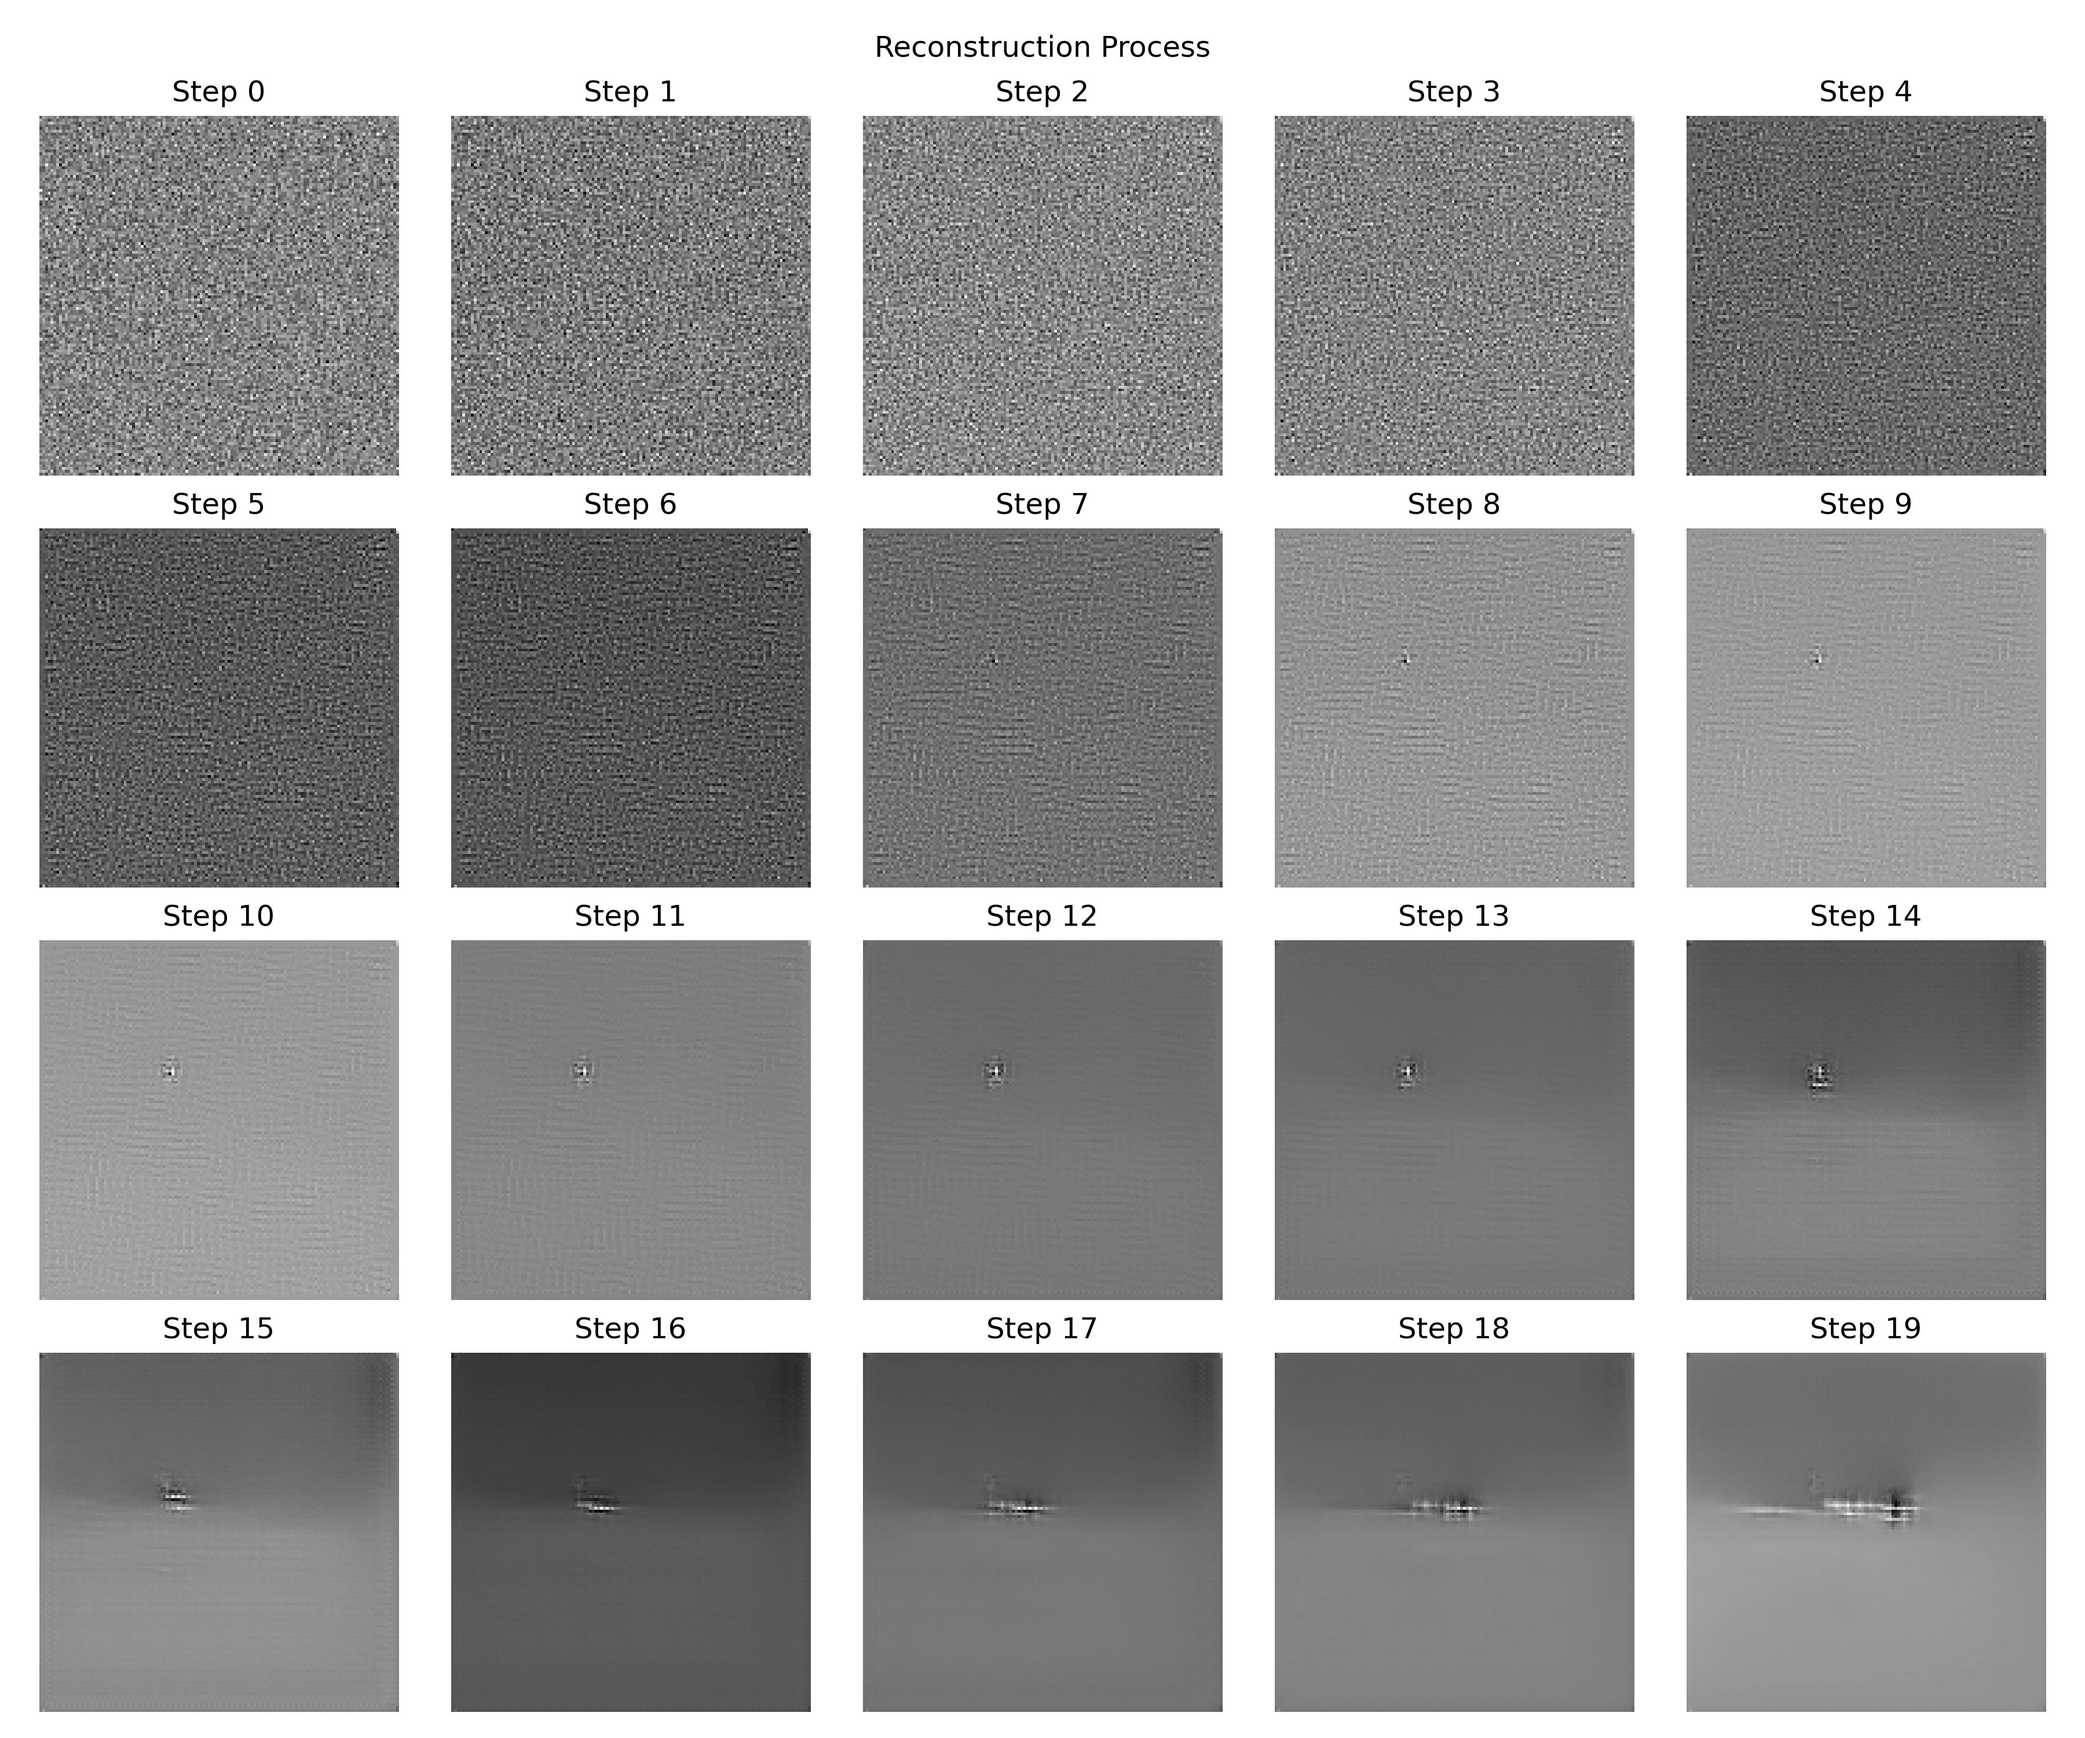
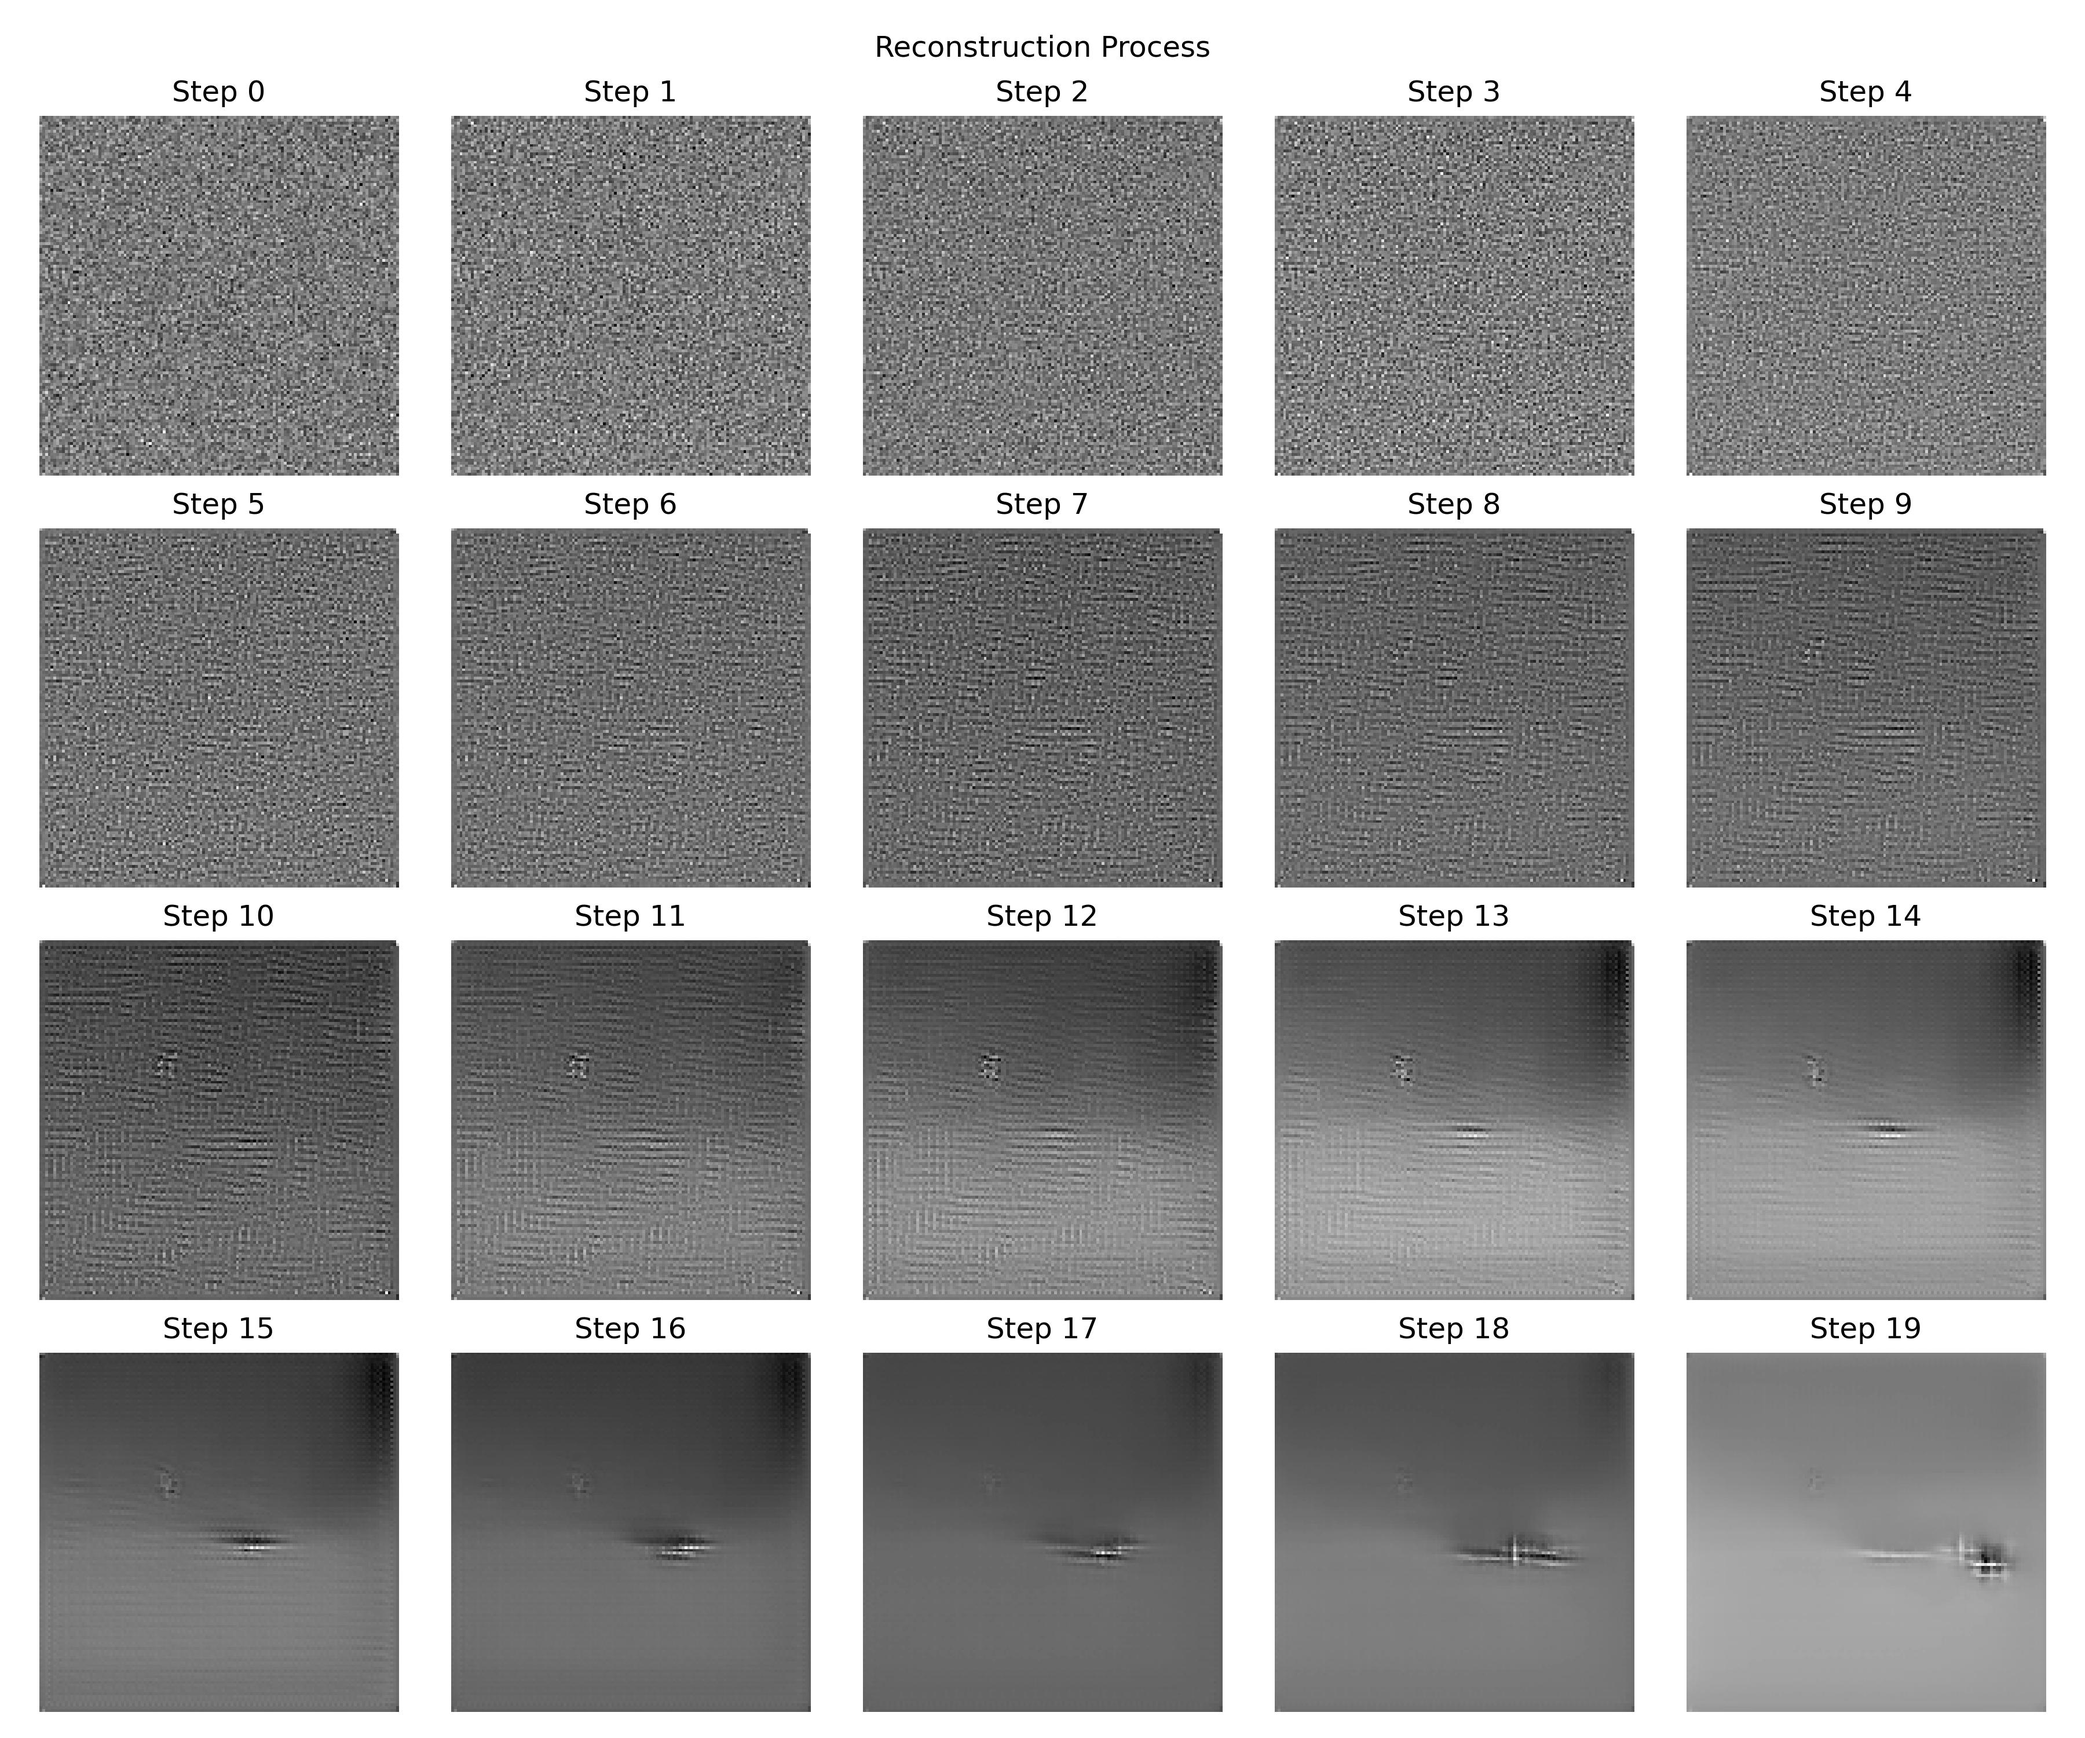
decaying learning rate and OMP bug fixes

diff --git a/square_IR_main.py b/square_IR_main.py
@@ -3,6 +3,7 @@ import numpy as np
 import torch
 import torch.nn as nn
 from torch.optim import Adam
+from torch.optim.lr_scheduler import ReduceLROnPlateau
 import torch.nn.functional as F
 from torch.utils.data import Dataset, DataLoader
 import cv2
@@ -15,10 +16,12 @@ from pathlib import Path
 
 device = torch.device('cuda' if torch.cuda.is_available() else 'cpu')
 # Global configuration variables
-task = 'reconstruct' #'train' # 'test  # Task name
-train_batch_size = 512
-num_epochs = 2000
-learning_rate = 1e-5
+task = 'train' #'train' # 'test  # Task name
+train_batch_size = 32
+num_epochs = 4000
+learning_rate = 1e-4
+weigth_decay = 1e-4
+stopping_criterion = 100 # Stop training if the loss is less than this value
 num_scales = 40
 sigma_min = 0.01
 sigma_max = 1.0
@@ -538,7 +541,8 @@ def show_reconstructed_image(x, y, y_recon, title, wait=False):
 def train_score_model():
     score_model = torch.nn.DataParallel(ScoreNet(marginal_prob_std=marginal_prob_std_fn))
     score_model = score_model.to(device)
-    optimizer = Adam(score_model.parameters(), lr=learning_rate)
+    optimizer = torch.optim.AdamW(score_model.parameters(), lr=learning_rate, weight_decay=1e-4)
+    scheduler = ReduceLROnPlateau(optimizer, 'min', patience=5)
     
     num_of_batches = len(data_loader)
     print("Number of batches:", num_of_batches)
@@ -554,6 +558,9 @@ def train_score_model():
             loss = loss_fn(score_model, x, marginal_prob_std_fn, show_image=False, eps=eps)
             optimizer.zero_grad()
             loss.backward()
+            # Gradient clipping
+            torch.nn.utils.clip_grad_norm_(score_model.parameters(), 1.0)
+
             optimizer.step()
             avg_loss += loss.item() * x.shape[0]
             num_items += x.shape[0]
@@ -561,10 +568,17 @@ def train_score_model():
 
             if batch_idx % (num_of_batches // 10) == 0:
                 print('Epoch:', epoch, '| Batch:', batch_idx, '| Loss: {:5f}'.format(loss.item()))
-        print('Epoch:', epoch, '/', num_epochs, '| Average Loss: {:5f}'.format(avg_loss / num_items), '| Time:', time.time() - start_epoch_time)
+        
+        # Scheduler step (if using ReduceLROnPlateau)
+        scheduler.step(loss)
+        print(f"Epoch: {epoch}/{num_epochs}, Average Loss: {(avg_loss / num_items)}, LR: {optimizer.param_groups[0]['lr']}, Time: {time.time() - start_epoch_time}")
         
         # Update the checkpoint after each epoch of training.
         torch.save(score_model.state_dict(), 'checkpoints/square/square_model.pth')
+
+        if avg_loss / num_items < stopping_criterion:
+            print('Stopping criterion reached.')
+            break
     return score_model
 from scipy import integrate
 
@@ -677,7 +691,7 @@ if __name__ == "__main__":
     # Load data
     dataset = ImageDataset(
         low_res_dir='images-square/low_res_train',
-        high_res_dir='images-square/high_res_train'
+        high_res_dir='images-square/medium_res_train'
     )
 
     # Get image dimensions

diff --git a/OMP_benchmark/OMP_blocked_benchmark_torch.py b/OMP_benchmark/OMP_blocked_benchmark_torch.py
@@ -240,7 +240,7 @@ def show_images(imgs, titles):
 start_time = time.time()
 print("Starting compressed sensing reconstruction...")
 # Load original image
-image_path = Path('medium_res_train_0.jpg')
+image_path = Path('images-square/low_res_train_15.jpg')
 original = cv2.imread(image_path, cv2.IMREAD_GRAYSCALE)
 if original is None:
     raise FileNotFoundError("Please place 'original.png' in the current directory.")
